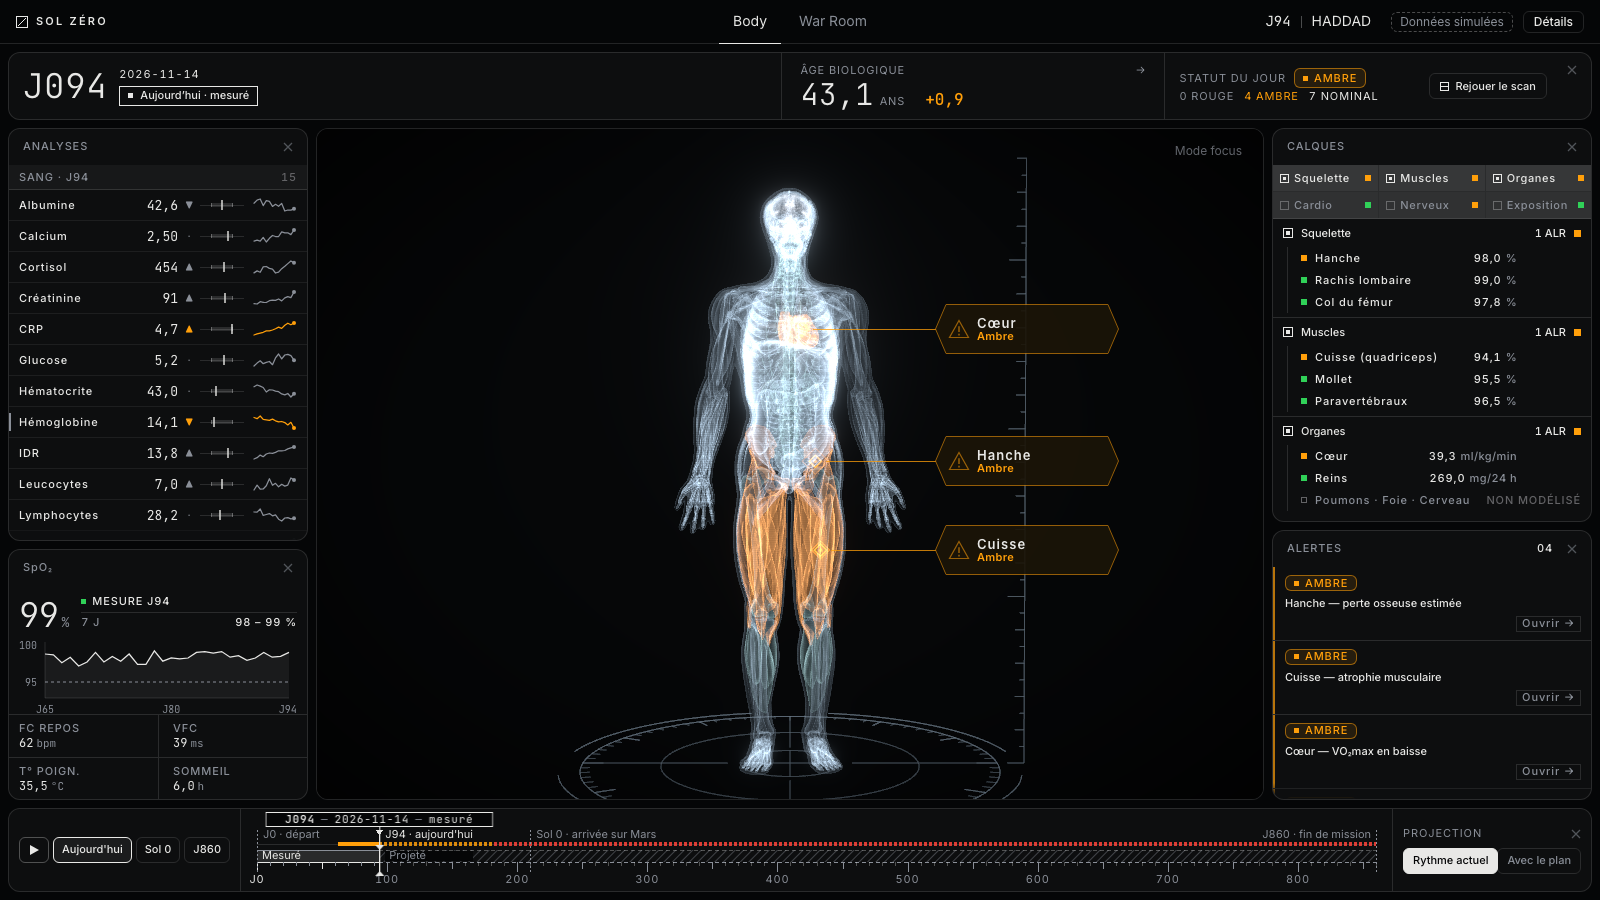
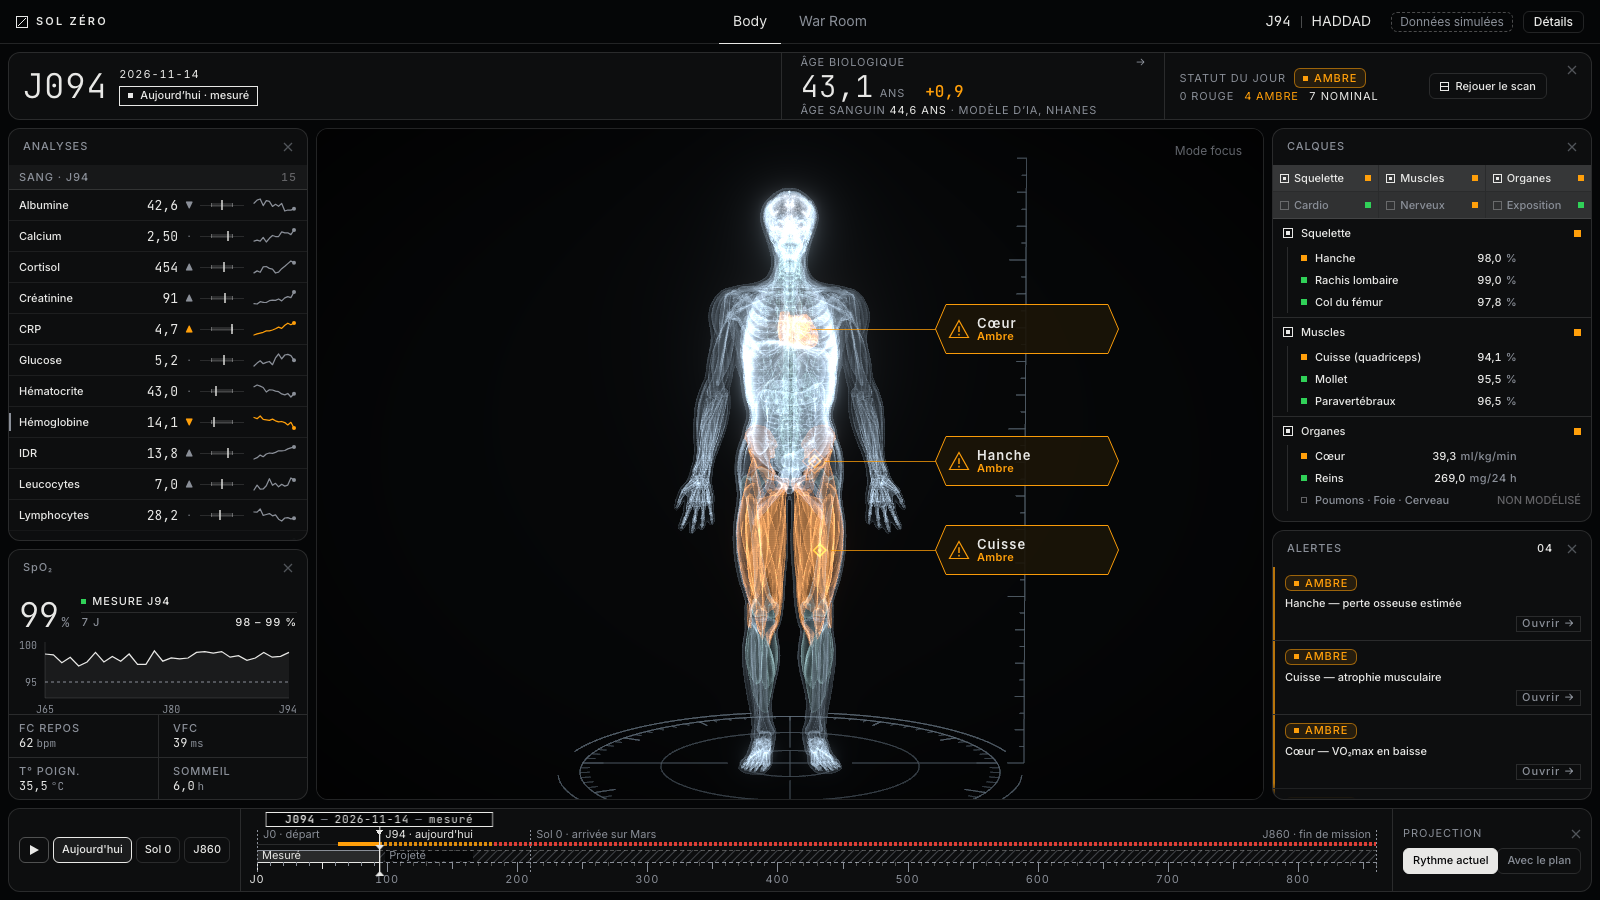
feat(body): modèles d'IA de Mouad dans la page Body — âge sanguin (A) dans l'en-tête, bande p10–p90 du modèle B dans la fenêtre organe

diff --git a/src/pages/body/panels/OrganWindow.tsx b/src/pages/body/panels/OrganWindow.tsx
@@ -13,6 +13,8 @@ import { CHRONO_AGE_J0, DAY_END, DAY_SOL0, DAY_TODAY } from '../../../mocks/miss
 import { getAnalyteMeta, getBloodTests, getDayBodyPlan } from '../../../sim/load';
 import { bioAgeSeries, hasBioAgeModel } from '../../../models/bioAge';
 import { phenoAge } from '../../../models/phenoAge';
+import { lossToYears } from '../../../models/agingRates';
+import { organForecast, type Forecast, type ForecastOrgan } from '../../../models/ml';
 import { SUMMARY_SOURCE, getSummaryPlan } from '../../../content/summaries';
 import { lightTimeMin, lightTimeSource } from '../../../content/horizons';
 import {
@@ -60,8 +62,27 @@ interface Row {
   band1?: [number, number];
 }
 
+/** Modèle d'IA B (régression quantile) : perte p10/p50/p90 à Sol 0 et en fin de mission, convertie en âge équivalent. */
+interface MlPoint { day: number; f: Forecast; lo: number; mid: number; hi: number }
+const ML_ORGANS = new Set<OrganId>(['hanche', 'cuisse', 'coeur']);
+const ML_DAYS = [DAY_SOL0, DAY_END] as const;
+
+function mlPoints(organId: OrganId, adherence: 0 | 1): MlPoint[] {
+  if (!ML_ORGANS.has(organId)) return [];
+  const out: MlPoint[] = [];
+  for (const day of ML_DAYS) {
+    if (day !== 210 && day !== 860) continue;
+    const f = organForecast(organId as ForecastOrgan, day, adherence);
+    const y = (loss: number): number | null => { const v = lossToYears(organId, loss); return v === null ? null : chronoAt(day) + v; };
+    const [lo, mid, hi] = f ? [y(f.p10), y(f.p50), y(f.p90)] : [null, null, null];
+    if (f && lo !== null && mid !== null && hi !== null) out.push({ day, f, lo, mid, hi });
+  }
+  return out;
+}
+
 interface GapChart {
   rows: Row[];
+  ml: [MlPoint[], MlPoint[]];   // modèle d'IA B, rythme actuel / avec le plan
   modeled: boolean;
   hasPrediction: boolean;
   splitDay: number;
@@ -91,6 +112,7 @@ function buildGapChart(organId: OrganId): GapChart {
   const hasPrediction = s0.some((p) => p.predicted);
   const splitDay = split >= 0 ? s0[split].day : -1;
   const plan = new Map(s1.map((p) => [p.day, p]));
+  const ml: [MlPoint[], MlPoint[]] = [mlPoints(organId, 0), mlPoints(organId, 1)];
 
   let lo = Infinity;
   let hi = -Infinity;
@@ -117,12 +139,14 @@ function buildGapChart(organId: OrganId): GapChart {
     return row;
   });
 
+  for (const m of [...ml[0], ...ml[1]]) see(m.lo, m.hi);
+
   const last0 = s0.length ? s0[s0.length - 1] : null;
   const last1 = s1.length ? s1[s1.length - 1] : null;
   const gap = (p: BioAgePoint | null): number | null => (p && modeled ? p.bioAge - chronoAt(p.day) : null);
   if (!Number.isFinite(lo)) { lo = CHRONO_AGE_J0; hi = CHRONO_AGE_J0 + 1; }
   return {
-    rows, modeled, hasPrediction, splitDay,
+    rows, ml, modeled, hasPrediction, splitDay,
     end: [gap(last0), gap(last1)],
     endPoint: [last0, last1],
     ...niceAxis(lo, hi + Math.max(0.4, (hi - lo) * 0.1)),
@@ -399,6 +423,17 @@ function GapChartView({ chart, day, adherence }: { chart: GapChart; day: number;
         {chart.hasPrediction && chart.modeled && e0 ? <ReferenceDot x={e0.day} y={e0.bioAge} r={2.5} fill={C.bg} stroke={s[0].stroke} /> : null}
         {chart.hasPrediction && chart.modeled && e1 ? <ReferenceDot x={e1.day} y={e1.bioAge} r={2.5} fill={C.bg} stroke={s[1].stroke} /> : null}
 
+        {/* modèle d'IA B : barre p10–p90 et médiane, scénario affiché seulement */}
+        {chart.modeled ? chart.ml[adherence].map((m) => (
+          <ReferenceLine
+            key={`ml-${m.day}`} ifOverflow="extendDomain" stroke={C.holo} strokeWidth={2} strokeOpacity={0.9}
+            segment={[{ x: m.day, y: m.lo }, { x: m.day, y: m.hi }]}
+          />
+        )) : null}
+        {chart.modeled ? chart.ml[adherence].map((m) => (
+          <ReferenceDot key={`ml-mid-${m.day}`} x={m.day} y={m.mid} r={2.5} fill={C.holo} stroke={C.bg} strokeWidth={1} />
+        )) : null}
+
         <Tooltip content={<GapTip />} cursor={{ stroke: C.textDim, strokeWidth: 1 }} isAnimationActive={false} />
       </ComposedChart>
     </ResponsiveContainer>
@@ -441,12 +476,13 @@ function PhenoChartView({ rows, usedDay }: { rows: PhenoRow[]; usedDay: number |
   );
 }
 
-function Legend({ pheno, mock }: { pheno?: boolean; mock?: boolean }): JSX.Element {
+function Legend({ pheno, mock, ml }: { pheno?: boolean; mock?: boolean; ml?: boolean }): JSX.Element {
   return (
     <ul className="ow__legend sz-label">
       <li><i className="ow__key ow__key--solid" />{pheno ? (mock ? 'PHENOAGE (VALEUR FACTICE)' : 'PHENOAGE CALCULÉ') : 'MESURÉ'}</li>
       {pheno ? null : <li><i className="ow__key ow__key--dash" />PRÉDIT (MODÈLE)</li>}
       {pheno ? null : <li><i className="ow__key ow__key--band" />INCERTITUDE</li>}
+      {ml ? <li><i className="ow__key ow__key--ml" />MODÈLE D’IA B (P10–P90)</li> : null}
       <li><i className="ow__key ow__key--thin" />ÂGE RÉEL</li>
     </ul>
   );
@@ -496,9 +532,20 @@ function OrganRight({ organ, day }: { organ: OrganState; day: number }): JSX.Ele
             </div>
           )}
         </div>
-        <Legend />
+        <Legend ml={chart.modeled && chart.ml[adherence].length > 0} />
       </Sect>
       <div className="ow__notes">
+        {chart.modeled && chart.ml[adherence].length > 0 ? (
+          <p className="ow__ml sz-mono">
+            <span className="ow__ml-name">MODÈLE D’IA B</span>{' '}
+            {chart.ml[adherence].map((m, i) => (
+              <span key={m.day}>
+                {i > 0 ? ' · ' : ''}{m.day === DAY_SOL0 ? 'SOL 0' : fmtDay(m.day)} : {fmt(m.f.p50, 1)} [{fmt(m.f.p10, 1)}–{fmt(m.f.p90, 1)}]
+              </span>
+            ))}
+            {' '}<span className="sz-dim">{chart.ml[adherence][0].f.unit}</span> <TagBadge tag="H" />
+          </p>
+        ) : null}
         <p className="ow__formula sz-mono">
           bioAge = âge réel + perte cumulée % / vitesse de vieillissement terrestre %/an <TagBadge tag="H" />
         </p>

diff --git a/src/pages/body/panels/Header.tsx b/src/pages/body/panels/Header.tsx
@@ -6,6 +6,7 @@ import type { CSSProperties, JSX } from 'react';
 import type { Color, DayBody } from '../../../types';
 import { ASTRONAUT, DAY_END, DAY_SOL0, DAY_TODAY } from '../../../mocks/mission';
 import { phenoAge } from '../../../models/phenoAge';
+import { bloodAgeSeries } from '../../../models/ml';
 import { lightTimeMin, lightTimeSource } from '../../../content/horizons';
 import { PanelClose, ProvenanceBadge, StatusChip, TagBadge, dayToDate, fmt, fmtDay } from '../../../ui';
 import { useBody, useDayBody } from '../store';
@@ -62,6 +63,9 @@ export function Header(): JSX.Element {
 
   const body = useDayBody();
   const pheno = useMemo(() => phenoAge(day), [day]);
+  // Modèle d'IA A (âge sanguin, NHANES) : dernier prélèvement ≤ jour affiché ; rien d'inventé au-delà.
+  const bloodSeries = useMemo(() => bloodAgeSeries(), []);
+  const blood = useMemo(() => bloodSeries.filter((p) => p.day <= day).at(-1) ?? null, [bloodSeries, day]);
   const date = dayToDate(day);
   const delay = useMemo(() => lightTimeMin(date), [date]);
   const delayExact = useMemo(() => lightTimeSource(date) === 'table', [date]);
@@ -150,9 +154,20 @@ export function Header(): JSX.Element {
             <span className="hdr__bio-none sz-mono">DONNÉES INSUFFISANTES</span>
           </span>
         )}
-        <span className="hdr__bio-foot sz-label sz-dim sz-detail">
-          {pheno?.mock ? 'FORMULE NON CALCULÉE' : 'LEVINE 2018'}
-          {pheno ? <> · {mode === 'projection' ? 'DERNIER PRÉLÈV.' : 'PRÉLÈV.'} {fmtDay(pheno.day)}</> : <> · AUCUN PRÉLÈVEMENT</>}
+        <span className="hdr__bio-foot sz-label sz-dim">
+          {blood ? (
+            <span
+              className="hdr__blood"
+              title={`Âge sanguin estimé par le modèle d'IA A (régression ElasticNet entraînée sur NHANES 2015–2018), prélèvement ${fmtDay(blood.day)} — âge réel ${fmt(blood.chronoAge, 1)} ans`}
+            >
+              ÂGE SANGUIN <span className="hdr__blood-num">{fmt(blood.bloodAge, 1)} ANS</span>
+              <span className="sz-detail"> (RÉEL {fmt(blood.chronoAge, 1)})</span> · MODÈLE D’IA, NHANES <TagBadge tag="H" />
+            </span>
+          ) : null}
+          <span className="sz-detail">
+            {blood ? ' · ' : ''}{pheno?.mock ? 'FORMULE NON CALCULÉE' : 'LEVINE 2018'}
+            {pheno ? <> · {mode === 'projection' ? 'DERNIER PRÉLÈV.' : 'PRÉLÈV.'} {fmtDay(pheno.day)}</> : <> · AUCUN PRÉLÈVEMENT</>}
+          </span>
         </span>
       </button>
 

diff --git a/src/pages/body/panels/LayersPanel.tsx b/src/pages/body/panels/LayersPanel.tsx
@@ -148,7 +148,7 @@ export function LayersPanel(): JSX.Element {
                 <span className="lyr__label">{sentenceCase(meta.label)}</span>
                 {!meta.mvp ? <span className="lyr__beta" title="Calque hors MVP — données partielles">BÊTA</span> : null}
                 <span className="lyr__fill" />
-                <span className="lyr__alerts" data-zero={n === 0} title={`${n} alerte${n > 1 ? 's' : ''} sur ce calque`}>
+                <span className="lyr__alerts sz-detail" data-zero={n === 0} title={`${n} alerte${n > 1 ? 's' : ''} sur ce calque`}>
                   {n > 0 ? `${n} ALR` : '—'}
                 </span>
                 <StatusDot color={worst} size={7} />

diff --git a/src/pages/body/panels/OrganWindow.css b/src/pages/body/panels/OrganWindow.css
@@ -346,6 +346,9 @@ button.ow__scn:hover:not(:disabled) { background: var(--sz-panel-hover); border-
   padding-top: 8px;
   border-top: 1px solid var(--sz-border);
 }
+.ow__key--ml { width: 2px; height: 10px; border-top: 0; background: var(--sz-holo); }
+.ow__ml { margin-bottom: 4px; font-size: 11px; line-height: 1.5; color: var(--sz-text); }
+.ow__ml-name { color: var(--sz-holo); }
 .ow__formula { font-size: 11px; line-height: 1.5; color: var(--sz-text); }
 .ow__limit { margin-top: 4px; font-size: 11px; line-height: 1.4; color: var(--sz-text-dim); }
 

diff --git a/src/pages/body/panels/LayersPanel.css b/src/pages/body/panels/LayersPanel.css
@@ -32,7 +32,7 @@
   font-family: var(--sz-font-text);
   font-size: 11px;
   line-height: 1;
-  letter-spacing: 0.06em;
+  letter-spacing: 0;
   text-transform: none;
   font-weight: 500;
   white-space: nowrap;
@@ -145,7 +145,7 @@
   font-family: var(--sz-font-text);
   font-size: 11px;
   line-height: 1;
-  letter-spacing: 0.08em;
+  letter-spacing: 0;
   text-transform: none;
   font-weight: 500;
   white-space: nowrap;

diff --git a/src/pages/body/panels/Header.css b/src/pages/body/panels/Header.css
@@ -159,6 +159,8 @@
   color: var(--sz-text);
 }
 .hdr__bio-unit { color: var(--sz-text-dim); }
+.hdr__bio-foot { overflow: hidden; text-overflow: ellipsis; white-space: nowrap; }
+.hdr__blood-num { color: var(--sz-text); }
 .hdr__bio-vs {
   display: inline-flex;
   align-items: baseline;

diff --git a/src/pages/body/panels/BloodPanel.css b/src/pages/body/panels/BloodPanel.css
@@ -119,7 +119,7 @@ button.bp-row:hover { background: var(--sz-panel-hover); }
   font-family: var(--sz-font-text);
   font-size: 11px;
   line-height: 12px;
-  letter-spacing: 0.08em;
+  letter-spacing: 0;
   text-transform: none;
   font-weight: 500;
   color: var(--sz-text);

diff --git a/status/walid.md b/status/walid.md
@@ -1,5 +1,5 @@
 # Status — Walid (A)
-_Mis à jour : sam. 14 nov. 16:25_
+_Mis à jour : sam. 14 nov. 19:55_
 
 ## Prêt en local — PAS ENCORE POUSSÉ sur origin/develop
 > Tout ce qui suit est sur la branche `develop` LOCALE (commits WIP + arbre de travail). `origin/develop` n'existe pas encore : rien n'est « livré » au sens de la
@@ -167,3 +167,10 @@ npm run build    # typecheck + build de prod
 - @Steve : vérifier les 3 normes dans le PDF NASA-STD-3001 Rév. C et passer `verified: true` ; noms de fichiers `.glb`
   attendus dans `public/models/manifest.json` (placeholder) ; coefficients PhenoAge (Levine 2018).
 - @Ahmed : `todoSync` et `checkin` sont en mémoire (aucun appel réseau) ; `server/api.ts` répond déjà aux 4 routes.
+
+## Réponse à Mouad (PR n°9) — sam. 19:55
+- **PR n°9 fusionnée dans `develop`** (triage, router, planDay, explain réels).
+- **En-tête Body** : « ÂGE SANGUIN 44,6 ANS · MODÈLE D'IA, NHANES [H] » sous PhenoAge (`bloodAgeSeries()`, dernier prélèvement ≤ jour affiché).
+- **Fenêtre organe hanche / cuisse / cœur** : barre p10–p90 + médiane du modèle B (`organForecast`) à Sol 0 (J210) et J860, pour le scénario affiché,
+  convertie en âge équivalent (`lossToYears`) sur le graphe ; valeurs en % de perte sous le graphe.
+
